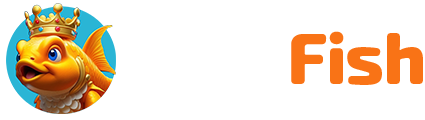
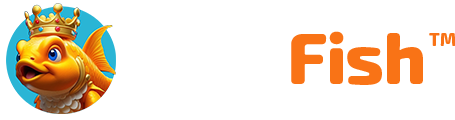
trademarked KINGFISH

Changed region(s): [[0.0, 0.025, 0.2753, 0.95], [0.6118, 0.25, 1.0, 0.725]]

diff --git a/app/constants/index.tsx b/app/constants/index.tsx
@@ -1,0 +1,187 @@
+import community from "@/assets/community.jpg";
+import lplocked from "@/assets/lp-locked.jpg";
+import rewards from "@/assets/rewards.jpg";
+
+const FUCHSIA_GRADIENT: string = "bg-gradient-to-r from-fuchsia-500 to-orange-400 hover:from-fuchsia-600 hover:to-orange-500";
+const OPACITY_FUCHSIA_GRADIENT: string = "bg-gradient-to-r from-fuchsia-500/50 to-orange-400/50";
+const VIOLET_GRADIENT: string = "bg-gradient-to-r from-violet-400 to-cyan-500 hover:from-violet-500 hover:to-cyan-600";
+const CYAN_GRADIENT: string = "bg-gradient-to-b from-cyan-500 to-sky-950";
+const TOKENOMICS_GRADIENT: string = "bg-gradient-to-b from-fuchsia-500 to-slate-950";
+
+const ROADMAP = [
+  {
+    title: "Stage One: Initial Launch",
+    items: [
+      {
+        description: (
+          <p>
+            Launch KINGFISH<sup className="text-[6px] relative -top-2">TM</sup> website
+          </p>
+        ),
+        completed: false,
+      },
+      {
+        description: "Mint initial tokens",
+        completed: false,
+      },
+      {
+        description: "Smart contract created / audited",
+        completed: false,
+      },
+    ],
+  },
+  {
+    title: "Stage Two: Marketing",
+    items: [
+      {
+        description: "CoinGecko listing",
+        completed: false,
+      },
+      {
+        description: "CoinMarketCap listing",
+        completed: false,
+      },
+    ],
+  },
+  {
+    title: "Stage Three: Solana Ocean Launch",
+    items: [
+      {
+        description: "Solana Ocean project launch",
+        completed: false,
+      },
+      {
+        description: `Basic ocean is started\n(P2P Wallet Visibility)`,
+        completed: false,
+      },
+    ],
+  },
+  {
+    title: "Stage Four: Airdrop",
+    items: [
+      {
+        description: (
+          <p>
+            Airdrop Solana Ocean tokens to all existing KINGFISH<sup className="text-[6px] relative -top-2">TM</sup> token holders
+          </p>
+        ),
+        completed: false,
+      },
+    ],
+  },
+  {
+    title: "Stage Five: Advanced Features",
+    items: [
+      {
+        description: "Solana Ocean project development",
+        completed: false,
+      },
+      {
+        description: (
+          <p>
+            KINGFISH<sup className="text-[6px] relative -top-2">TM</sup> holders can meet, chat and send tokens to each other in live interactive Web3 environment
+          </p>
+        ),
+        completed: false,
+      },
+      {
+        description: (
+          <p>
+            Fish grow/shrink in size depending on KINGFISH<sup className="text-[6px] relative -top-2">TM</sup> holdings
+          </p>
+        ),
+        completed: false,
+      },
+    ],
+  },
+  {
+    title: "Stage Six: Viral Growth",
+    items: [
+      {
+        description: "Organic viral growth is unleashed as more users find the platform and bring their friends to Solana Ocean",
+        completed: false,
+      },
+    ],
+  },
+];
+const COMMUNITY_CARDS = [
+  {
+    title: "Discord",
+    url: process.env.NEXT_PUBLIC_DISCORD_URL,
+    image: "discord",
+    description: (
+      <p>
+        The official home base of King<span className="text-orange-500">Fish</span>
+        <sup className="text-[6px] text-orange-500 relative -top-2">TM</sup>, the world's most popular fish-themed crypto token.
+      </p>
+    ),
+    buttonText: "Join Discord",
+    bgcolor: "bg-chetwode",
+  },
+  {
+    title: "Telegram",
+    url: process.env.NEXT_PUBLIC_TELEGRAM_URL,
+    image: "telegram",
+    description: (
+      <p>
+        All-in-one King<span className="text-orange-500">Fish</span>
+        <sup className="text-[6px] text-orange-500 relative -top-2">TM</sup> chat & support group. Memes abound.
+      </p>
+    ),
+    buttonText: "Join Telegram",
+    bgcolor: "bg-picton",
+  },
+  {
+    title: "X",
+    url: process.env.NEXT_PUBLIC_TWITTER_URL,
+    image: "twitter",
+    description: (
+      <p>
+        Stay up-to-date on the latest news and King<span className="text-orange-500">Fish</span>
+        <sup className="text-[6px] text-orange-500 relative -top-2">TM</sup> memes.
+      </p>
+    ),
+    buttonText: "Follow",
+    bgcolor: "bg-black",
+  },
+];
+
+const ECO_CARDS = [
+  {
+    title: "Rewards",
+    message: (
+      <>
+        Early holders of{" "}
+        <span className="font-bold">
+          KING<span className="text-orange-500">FISH</span>
+        </span>
+        <sup className="text-[6px] text-orange-500 relative -top-2">TM</sup> tokens will be rewarded with an airdrop of our <span className="underline">utility token</span>,{" "}
+        <span className="font-bold">SOLANAOCEAN</span>, when it launches. The more KF tokens you are holding the more SOLANAOCEAN you will receive.
+      </>
+    ),
+    image: rewards,
+  },
+  {
+    title: "Community",
+    message: (
+      <p>
+        We're dedicated to empowering the Solana Ocean and{" "}
+        <span className="font-bold">
+          KING<span className="text-orange-500">FISH</span>
+          <sup className="text-[6px] text-orange-500 relative -top-2">TM</sup>
+        </span>{" "}
+        community, positioning it as a leading entity in the crypto landscape through a spectrum of rewards, including airdrops, exclusive early access to specialized updates, and
+        spontaneous random drops, alongside a suite of utilities like in-app communications and peer-to-peer sharing, all strategically outlined within our product roadmap.
+      </p>
+    ),
+    image: community,
+  },
+  {
+    title: "Locked LP",
+    message:
+      "In the Solana Ocean ecosystem, our liquidity is securely locked, serving as the cornerstone of stability. This personal safeguard shields our community from volatility, nurturing trust and sustainability in our decentralized finance journey.",
+    image: lplocked,
+  },
+];
+
+export { COMMUNITY_CARDS, CYAN_GRADIENT, ECO_CARDS, FUCHSIA_GRADIENT, OPACITY_FUCHSIA_GRADIENT, ROADMAP, TOKENOMICS_GRADIENT, VIOLET_GRADIENT };

diff --git a/components/Ecosystem/Ecosystem.tsx b/components/Ecosystem/Ecosystem.tsx
@@ -1,36 +1,8 @@
-import community from "@/assets/community.jpg";
-import lplocked from "@/assets/lp-locked.jpg";
-import rewards from "@/assets/rewards.jpg";
 import { EcoCard } from "@/components";
 import { FC } from "react";
 import { EcosystemProps } from ".";
 
-const Ecosystem: FC<EcosystemProps> = () => {
-  const ecocards: Record<string, any>[] = [
-    {
-      title: "Rewards",
-      message: (
-        <>
-          Early holders of <span className="font-bold">KINGFISH</span> tokens will be rewarded with an airdrop of our <span className="underline">utility token</span>,{" "}
-          <span className="font-bold">SOLANAOCEAN</span>, when it launches. The more KF tokens you are holding the more SOLANAOCEAN you will receive.
-        </>
-      ),
-      image: rewards,
-    },
-    {
-      title: "Community",
-      message:
-        "We're dedicated to empowering the Solana Ocean and KINGFISH community, positioning it as a leading entity in the crypto landscape through a spectrum of rewards, including airdrops, exclusive early access to specialized updates, and spontaneous random drops, alongside a suite of utilities like in-app communications and peer-to-peer sharing, all strategically outlined within our product roadmap.",
-      image: community,
-    },
-    {
-      title: "Locked LP",
-      message:
-        "In the Solana Ocean ecosystem, our liquidity is securely locked, serving as the cornerstone of stability. This personal safeguard shields our community from volatility, nurturing trust and sustainability in our decentralized finance journey.",
-      image: lplocked,
-    },
-  ];
-
+const Ecosystem: FC<EcosystemProps> = ({ ecocards }) => {
   return (
     <div id="ecosystem">
       <div className="md:w-3/4 flex justify-center py-6 md:py-12 relative mx-auto text-white mt-10">
@@ -38,7 +10,8 @@ const Ecosystem: FC<EcosystemProps> = () => {
           <div className="py-6 px-4 md:px-0 md:pr-6">
             <h2 className="text-4xl font-bold">Ecosystem</h2>
             <p className="text-lg">
-              KingFish <span className="text-cyan-400">Ecosystem</span>
+              King<span className="text-orange-500">Fish</span>
+              <sup className="text-[6px] text-orange-500 relative -top-2.5">TM</sup> <span className="text-cyan-400">Ecosystem</span>
             </p>
             <p className="font-extralight py-4">
               From humble goldfish to formidable shark, and finally, a majestic whale, "KINGFISH" dominates the waters of Solana Ocean, renowned for its insatiable appetite for KF
@@ -49,7 +22,7 @@ const Ecosystem: FC<EcosystemProps> = () => {
               realm.
             </p>
             <p className="font-bold">
-              But the journey didn't end there. Transformed into a whale, "KINGFISH" continued its relentless pursuit as others, <span className="text-orange-400">LIKE YOU</span>,
+              But the journey didn't end there. Transformed into a whale, "KINGFISH" continued its relentless pursuit as others, <span className="text-orange-500">LIKE YOU</span>,
               embarked on their own KF coin collecting odyssey.
             </p>
           </div>

diff --git a/app/page.tsx b/app/page.tsx
@@ -1,6 +1,6 @@
 "use client";
 import { Community, Ecosystem, Footer, HeroCard, Navbar, Roadmap, Socials, Tokenomics } from "@/components";
-import { COMMUNITY_CARDS, ROADMAP } from "./constants";
+import { COMMUNITY_CARDS, ECO_CARDS, ROADMAP } from "./constants";
 export default function Home() {
   return (
     <>
@@ -8,7 +8,7 @@ export default function Home() {
         <Navbar />
         <HeroCard />
         <Socials />
-        <Ecosystem />
+        <Ecosystem ecocards={ECO_CARDS} />
         <Tokenomics />
         <Roadmap roadmapItems={ROADMAP} />
         <Community communityItems={COMMUNITY_CARDS} />

diff --git a/components/RoadmapCard/RoadmapCard.types.ts b/components/RoadmapCard/RoadmapCard.types.ts
@@ -1,10 +1,8 @@
-import { ReactNode } from "react";
-
 export interface RoadmapCardProps {
   roadmapItem: {
     title: string;
     items: {
-      description: string | ReactNode;
+      description: string | JSX.Element;
       completed: boolean;
     }[];
   };

diff --git a/components/Roadmap/Roadmap.types.ts b/components/Roadmap/Roadmap.types.ts
@@ -1,10 +1,8 @@
-import { ReactNode } from "react";
-
 export interface RoadmapProps {
   roadmapItems: {
     title: string;
     items: {
-      description: string | ReactNode;
+      description: string | JSX.Element;
       completed: boolean;
     }[];
   }[];

diff --git a/components/Ecosystem/Ecosystem.types.ts b/components/Ecosystem/Ecosystem.types.ts
@@ -1,1 +1,9 @@
-export interface EcosystemProps {}
+import { StaticImageData } from "next/image";
+
+export interface EcosystemProps {
+  ecocards: {
+    title: string;
+    message: string | JSX.Element;
+    image: StaticImageData;
+  }[];
+}

diff --git a/components/CommunityCard/CommunityCard.types.ts b/components/CommunityCard/CommunityCard.types.ts
@@ -2,7 +2,7 @@ export interface CommunityCardProps {
   title: string;
   url?: string;
   image: string;
-  description: string;
+  description: string | JSX.Element;
   buttonText: string;
   bgcolor: string;
   className?: string;
